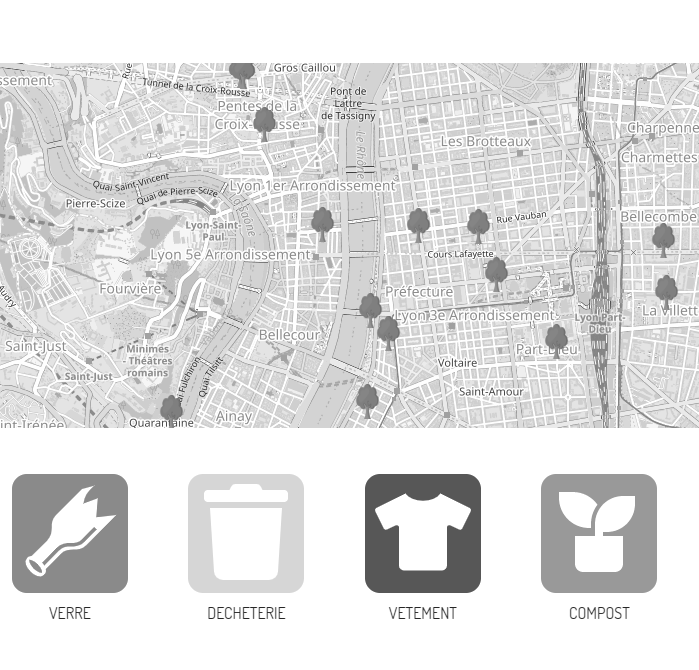
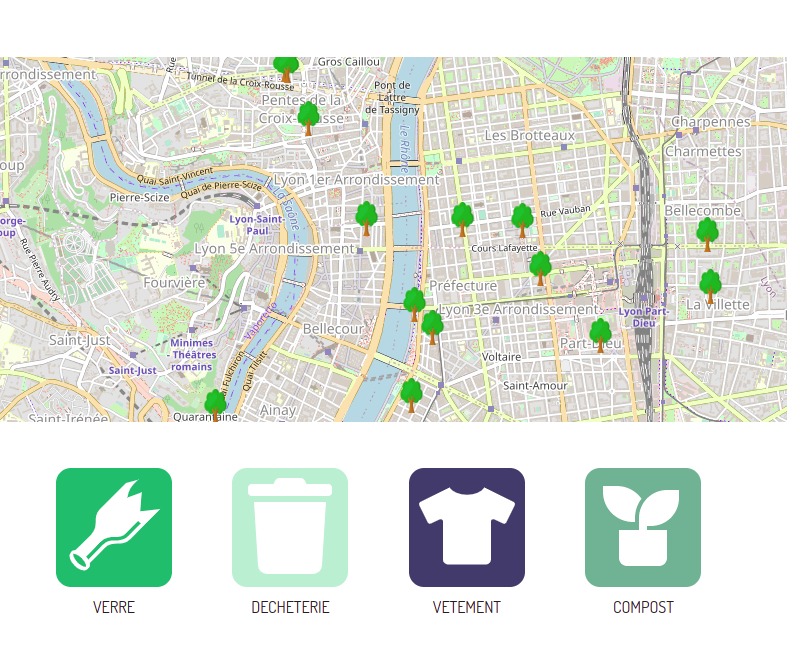
changed pictures to color

diff --git a/src/routes/Home.js b/src/routes/Home.js
@@ -8,10 +8,10 @@ import ModalPro2 from '../components/ModalPro2';
 import ModalPro3 from '../components/ModalPro3';
 import ModalPro4 from '../components/ModalPro4';
 
-import locaBImage from '../img/locabS.png';
-import jeTreeImage from '../img/jetree1.png';
-import nanarImage from '../img/nanartest.png';
-import super5snakeImage from '../img/s5stest.png';
+import locaBImage from '../img/locab.png';
+import jeTreeImage from '../img/jetree.png';
+import nanarImage from '../img/nanar.png';
+import super5snakeImage from '../img/s5s.png';
 
 import rondBleu from '../img/formes/rond-b.png';
 import lignes from '../img/formes/lignes.png';
